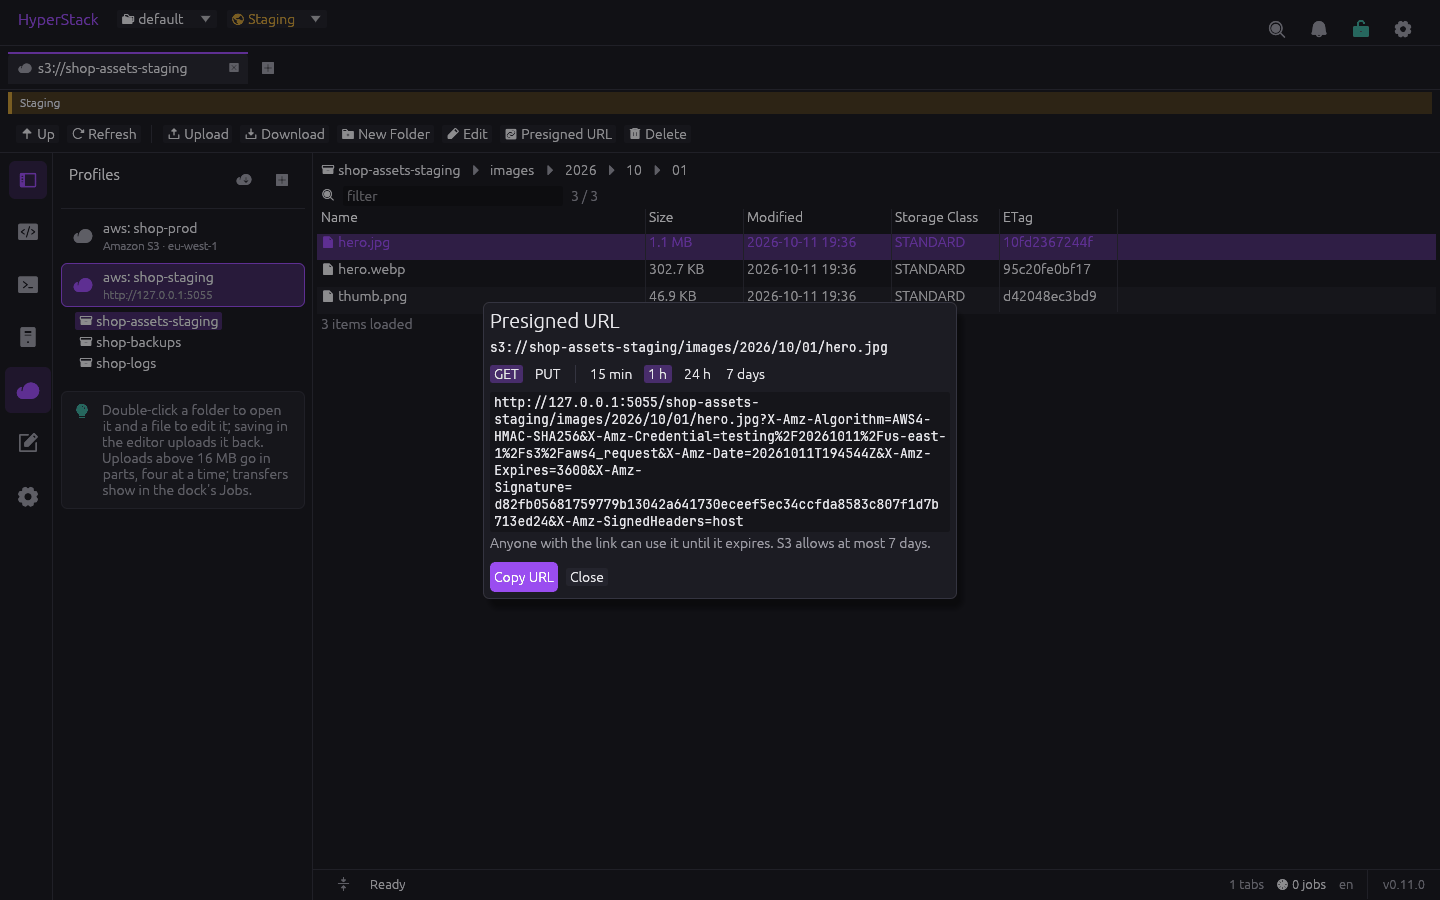
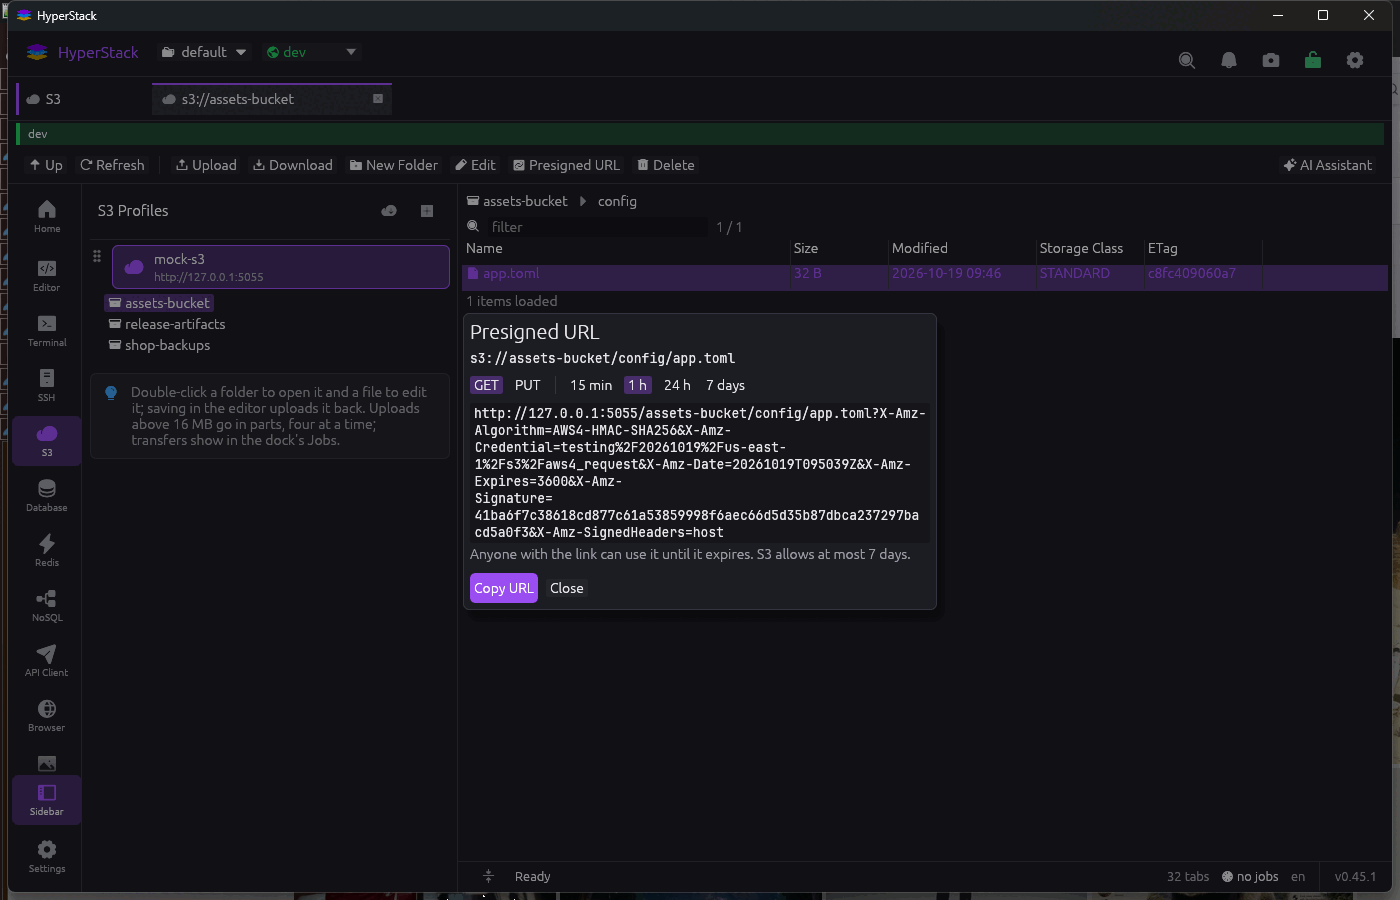
docs: refresh the S3 browser screenshots against moto
A local moto_server seeded assets-bucket, shop-backups and release-artifacts,\nso the browser, object editor, presigned URL, delete confirmation and AWS\nimport dialog now show the current S3 tool instead of the 2026-10-15 set.

diff --git a/docs/screenshots/README.md b/docs/screenshots/README.md
@@ -161,6 +161,15 @@ source); `launcher.png`, `command-palette.png`, `dock.png`,
 folder) and the SSH and S3 connection forms. `editor-git-tree.png`,
 `editor-git-diff.png` and `editor-git-history.png` were retaken from the
 ir-conflict fixture: a modified `note1.txt` in Source Control, its inline
-diff, and the commit list with the `v1.0-demo` tag. The S3 *browser* shots still come
-from the earlier moto set; the form is current and shows the provider
-presets.
+diff, and the commit list with the `v1.0-demo` tag.
+
+S3 pass, 2026-10-19: `moto_server` 5.2.4 on `127.0.0.1:5055`
+(`testing`/`testing`) seeded three buckets - `assets-bucket` with
+`config/`, `data/`, `docs/` and `images/`, `shop-backups` and
+`release-artifacts` - and a `mock-s3` profile with path-style addressing.
+That produced `s3-browser.png` (bucket list and a prefix), `s3-edit.png`
+(`config/app.toml` opened in the editor from its temp copy),
+`s3-presign.png` (a signed GET URL with its expiry), `s3-delete-guard.png`
+(a single-object confirmation that notes versioning is off) and
+`s3-import-aws.png` (the import dialog's empty state, because this machine
+has no AWS CLI profiles).
